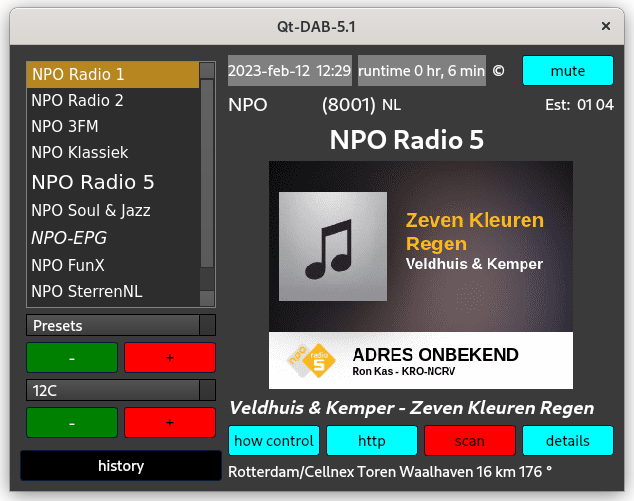
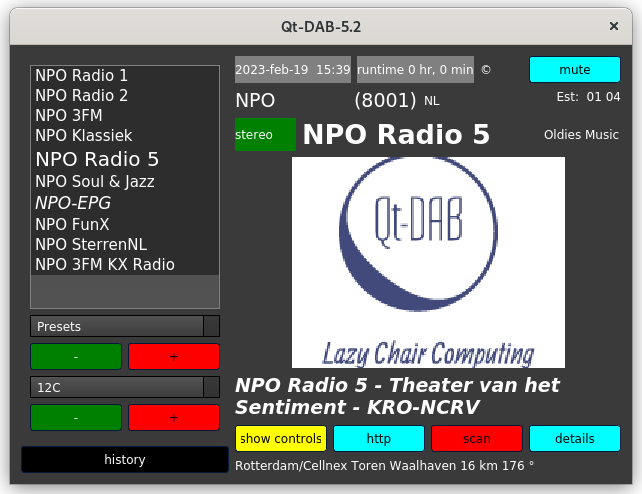
text change

diff --git a/README.md b/README.md
@@ -93,7 +93,7 @@ the GUI and the software interfacing the GUI to the rest of the program.
 
 **dabMini**, i.e. the small version for just listening to a service, is obsolete, the source can be found as subdirectory in the "obsolete" directory.
 
-![5.1](/qt-dab-5-main-widget.png?raw=true)
+![5.2](/qt-dab-5-main-widget.png?raw=true)
 ![4.4](/qt-dab-4-main-widget.png?raw=true)
 
 Of course, the configuration and control widget in Qt-DAB-5 is larger
@@ -104,13 +104,18 @@ Since the Qt-DAB-5 main widget shows the station labels (if any),
 the option - available in Qt-DAB-4 - for displaying the station labels
 on a separate widget is not needed.
 
-![5.1](/qt-dab-5-config-widget.png?raw=true)
+![5.2](/qt-dab-5-config-widget.png?raw=true)
 ![4.4](/qt-dab-4-config-widget.png?raw=true)
 
 The functionality of the versions is (almost) the same, version 5.1 has
 (most users will not use it though) the possibility of generating "eti" files.
 If there is serious interest for adding the feature to the Qt-DAB-4 interface,
 then let me know.
+
+The Qt-DAB-5.2 version has a slightly modified "technical window", 
+it now contains a small spectrum display of the audio output.
+
+![5.2](/qt-dab-5-technical-widget.png?raw=true)
 
 ----------------------------------------------------------------------
 A note on showing a map
